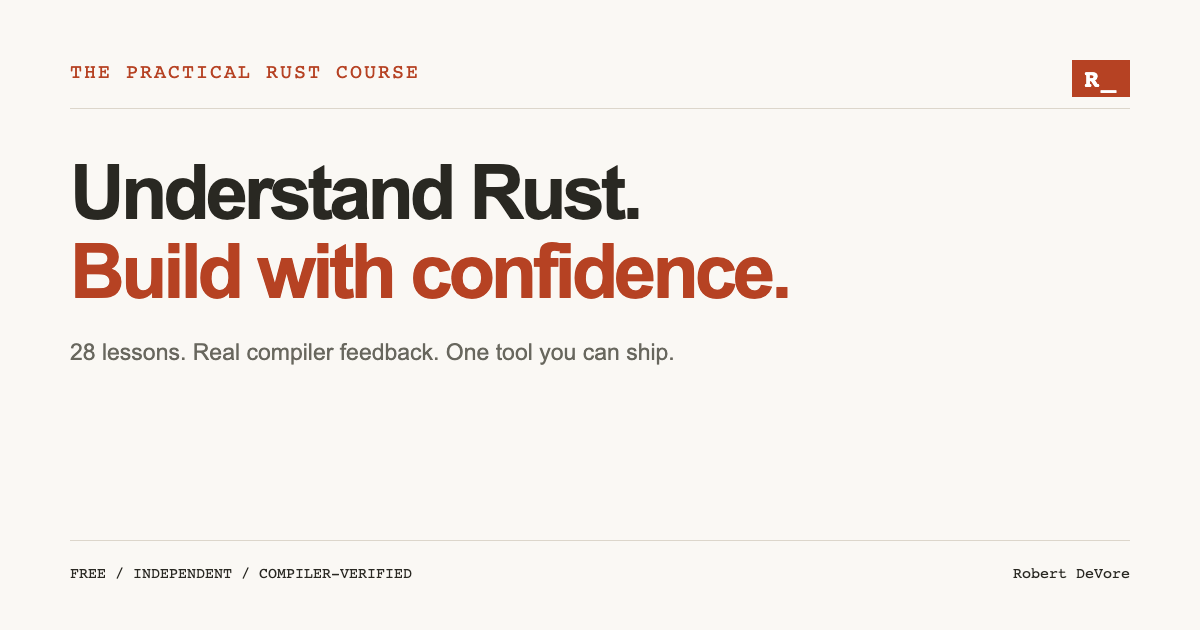
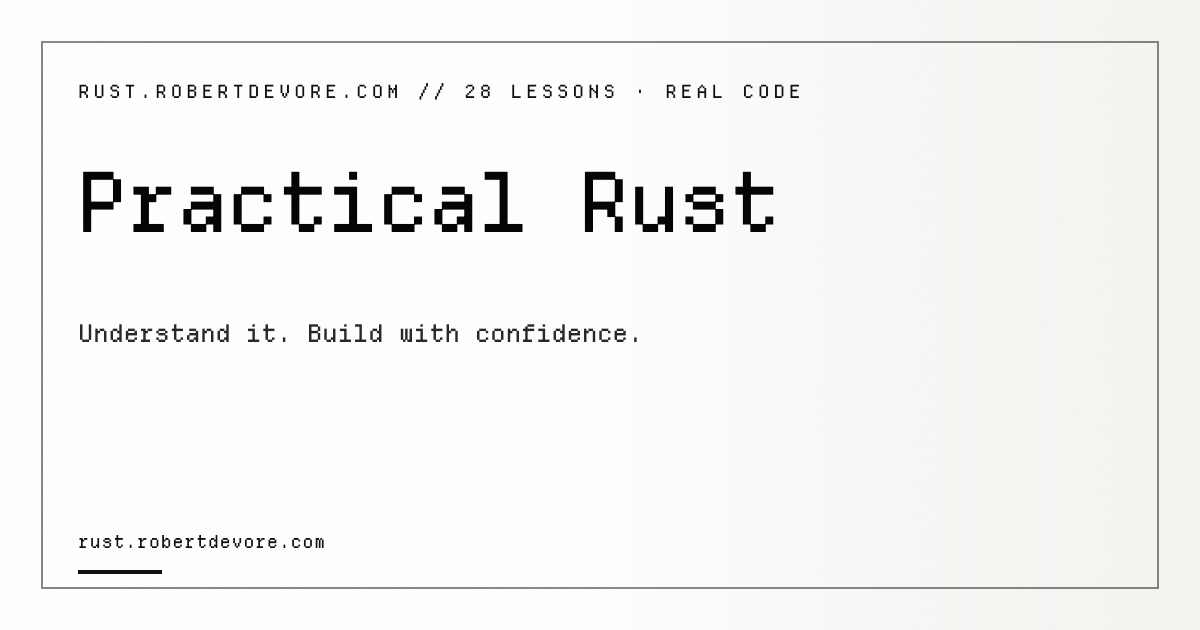
Add verified course discovery exports and source-backed Howl assets

diff --git a/showcase/ownership.html b/showcase/ownership.html
@@ -1,0 +1,33 @@
+<!DOCTYPE html>
+<html lang="en">
+<head>
+<meta charset="utf-8">
+<meta name="viewport" content="width=device-width, initial-scale=1">
+<title>Borrow, then move</title>
+<style>:root{--bg:#fff;--fg:#111;--muted:#666;--line:#e5e5e5;--accent:#2563eb;--code-bg:#0f1115;--code-fg:#e6e6e6}*{box-sizing:border-box}body{margin:0;background:var(--bg);color:var(--fg);font-family:-apple-system,BlinkMacSystemFont,'Segoe UI',Roboto,Helvetica,Arial,sans-serif;line-height:1.5}.card{max-width:760px;margin:48px auto;padding:0 24px}.eyebrow{font-size:13px;letter-spacing:.08em;text-transform:uppercase;color:var(--muted);margin:0 0 8px}h1{font-size:30px;line-height:1.2;margin:0 0 8px}.tagline{font-size:18px;color:var(--muted);margin:0 0 24px}pre{background:var(--code-bg);color:var(--code-fg);padding:18px 20px;border-radius:10px;overflow:auto;font-family:'SF Mono',Menlo,Consolas,monospace;font-size:14px;line-height:1.55}pre.out{background:#f6f7f9;color:#111;border:1px solid var(--line)}code{font-family:'SF Mono',Menlo,Consolas,monospace}.label{font-size:13px;letter-spacing:.04em;text-transform:uppercase;color:var(--muted);margin:24px 0 8px}.concepts{display:flex;flex-wrap:wrap;gap:8px;margin:24px 0}.chip{border:1px solid var(--line);border-radius:999px;padding:4px 12px;font-size:13px;color:var(--fg)}.note{color:var(--muted);font-size:14px;margin:8px 0}.trunc{color:var(--accent);font-size:13px;margin:8px 0 0}.caption{border-top:1px solid var(--line);margin-top:32px;padding-top:20px;color:var(--fg);white-space:pre-wrap;font-size:15px}footer{color:var(--muted);font-size:13px;margin-top:24px}a{color:var(--accent)}</style>
+</head>
+<body>
+<main class="card">
+<p class="eyebrow">Rust Course</p>
+<h1>Borrow, then move</h1>
+<p class="tagline">Inspect a String through a shared reference, then transfer ownership.</p>
+<pre><code>fn label(text: &amp;str) -&gt; usize {
+    text.len()
+}
+fn main() {
+    let original = String::from(&quot;WARN retry&quot;);
+    let bytes = label(&amp;original);
+    let stored = original;
+    assert_eq!(bytes, 10);
+    assert_eq!(stored, &quot;WARN retry&quot;);
+}
+</code></pre>
+<div class="concepts"><span class="chip">borrowing</span><span class="chip">moves</span><span class="chip">assertions</span></div>
+<p class="note">The example passes assertions and produces no stdout on Rust 1.98.1.</p>
+<div class="caption">Borrow to inspect. Move to transfer ownership. Run this example, then change it and read the compiler.
+
+Study lesson 03 in the free Rust course.</div>
+<footer><a href="https://rust.robertdevore.com/course/03-ownership/">https://rust.robertdevore.com/course/03-ownership/</a></footer>
+</main>
+</body>
+</html>

diff --git a/showcase/rust-course.html b/showcase/rust-course.html
@@ -1,0 +1,32 @@
+<!DOCTYPE html>
+<html lang="en">
+<head>
+<meta charset="utf-8">
+<meta name="viewport" content="width=device-width, initial-scale=1">
+<title>Practical Rust</title>
+<style>:root{--bg:#fff;--fg:#111;--muted:#666;--line:#e5e5e5;--accent:#2563eb;--code-bg:#0f1115;--code-fg:#e6e6e6}*{box-sizing:border-box}body{margin:0;background:var(--bg);color:var(--fg);font-family:-apple-system,BlinkMacSystemFont,'Segoe UI',Roboto,Helvetica,Arial,sans-serif;line-height:1.5}.card{max-width:760px;margin:48px auto;padding:0 24px}.eyebrow{font-size:13px;letter-spacing:.08em;text-transform:uppercase;color:var(--muted);margin:0 0 8px}h1{font-size:30px;line-height:1.2;margin:0 0 8px}.tagline{font-size:18px;color:var(--muted);margin:0 0 24px}pre{background:var(--code-bg);color:var(--code-fg);padding:18px 20px;border-radius:10px;overflow:auto;font-family:'SF Mono',Menlo,Consolas,monospace;font-size:14px;line-height:1.55}pre.out{background:#f6f7f9;color:#111;border:1px solid var(--line)}code{font-family:'SF Mono',Menlo,Consolas,monospace}.label{font-size:13px;letter-spacing:.04em;text-transform:uppercase;color:var(--muted);margin:24px 0 8px}.concepts{display:flex;flex-wrap:wrap;gap:8px;margin:24px 0}.chip{border:1px solid var(--line);border-radius:999px;padding:4px 12px;font-size:13px;color:var(--fg)}.note{color:var(--muted);font-size:14px;margin:8px 0}.trunc{color:var(--accent);font-size:13px;margin:8px 0 0}.caption{border-top:1px solid var(--line);margin-top:32px;padding-top:20px;color:var(--fg);white-space:pre-wrap;font-size:15px}footer{color:var(--muted);font-size:13px;margin-top:24px}a{color:var(--accent)}</style>
+</head>
+<body>
+<main class="card">
+<p class="eyebrow">Rust Course</p>
+<h1>Practical Rust</h1>
+<p class="tagline">Understand it. Build with confidence.</p>
+<pre><code>fn label(text: &amp;str) -&gt; usize {
+    text.len()
+}
+fn main() {
+    let original = String::from(&quot;WARN retry&quot;);
+    let bytes = label(&amp;original);
+    let stored = original;
+    assert_eq!(bytes, 10);
+    assert_eq!(stored, &quot;WARN retry&quot;);
+}
+</code></pre>
+
+<div class="caption">A free practical Rust course with 28 lessons, compiler drills, and an installable CLI capstone.
+
+Start at rust.robertdevore.com.</div>
+<footer><a href="rust.robertdevore.com">rust.robertdevore.com</a></footer>
+</main>
+</body>
+</html>

diff --git a/showcase/index.html b/showcase/index.html
@@ -1,0 +1,32 @@
+<!DOCTYPE html>
+<html lang="en">
+<head>
+<meta charset="utf-8">
+<meta name="viewport" content="width=device-width, initial-scale=1">
+<title>Rust Course showcase</title>
+<style>*{box-sizing:border-box}body{margin:0;background:#fafafa;color:#111;font-family:-apple-system,BlinkMacSystemFont,'Segoe UI',Roboto,Helvetica,Arial,sans-serif;line-height:1.5}.wrap{max-width:960px;margin:48px auto;padding:0 24px}header h1{font-size:32px;margin:0 0 4px}header p{color:#666;margin:0 0 32px;font-size:18px}.grid{display:grid;gap:20px}.item{background:#fff;border:1px solid #e5e5e5;border-radius:12px;padding:20px 24px}.item h2{font-size:20px;margin:0 0 4px}.item .tag{color:#666;margin:0 0 12px}.chips{display:flex;flex-wrap:wrap;gap:6px;margin:0 0 14px}.chip{border:1px solid #e5e5e5;border-radius:999px;padding:2px 10px;font-size:12px;color:#444}.links a{margin-right:14px;font-size:14px;color:#2563eb;text-decoration:none}footer{color:#999;font-size:13px;margin-top:40px}</style>
+</head>
+<body>
+<div class="wrap">
+<header>
+<h1>Rust Course showcase</h1>
+<p>Understand Rust. Build with confidence.</p>
+</header>
+<div class="grid">
+<article class="item">
+<h2>Borrow, then move</h2>
+<p class="tag">Inspect a String through a shared reference, then transfer ownership.</p>
+<div class="chips"><span class="chip">borrowing</span><span class="chip">moves</span><span class="chip">assertions</span></div>
+<div class="links"><a href="ownership.html">HTML</a><a href="ownership.svg">SVG</a><a href="ownership.md">Markdown</a></div>
+</article>
+<article class="item">
+<h2>Practical Rust</h2>
+<p class="tag">Understand it. Build with confidence.</p>
+
+<div class="links"><a href="rust-course.html">HTML</a><a href="rust-course.svg">SVG</a><a href="rust-course.md">Markdown</a></div>
+</article>
+</div>
+<footer>Generated by Howl. Static, offline, no tracking.</footer>
+</div>
+</body>
+</html>

diff --git a/assets/site.css b/assets/site.css
@@ -15,3 +15,5 @@
 @media(forced-colors:active){*{scrollbar-color:auto}}
 
 h1,h2,h3,h4,h5,h6,.brand,.top nav,.search-open,.menu-toggle,.text-link,.prose summary{font-family:var(--mono)}
+
+.lesson-source{font-size:12px;color:var(--muted);margin:18px 0 24px}.lesson-source a{color:var(--accent)}

diff --git a/README.md b/README.md
@@ -59,3 +59,20 @@ node scripts/verify-production.mjs
 `wrangler.jsonc` configures Workers Static Assets and the sole custom domain. Initial deployment is authorized to attach that domain; do not overwrite an existing conflicting record without inspecting ownership. Local deployment uses Wrangler OAuth. Optional manual GitHub deployment requires repository secrets `CLOUDFLARE_API_TOKEN` and `CLOUDFLARE_ACCOUNT_ID`; never put credentials in source. The regular CI runs verification on pushes and PRs independently of deployment credentials.
 
 MIT licensed original code and course prose. Independent project by Robert DeVore; no Rust Project or named-maintainer endorsement is claimed.
+
+## Discovery and reproducible showcase assets
+
+The generator emits factual Schema.org entities and breadcrumbs, source-complete Markdown at `/lessons/<slug>.md`, a versioned `/course-index.json` with content hashes, and `/llms-full.txt`. Canonical HTML remains authoritative. These exports support offline readers and retrieval tools; they are not special ranking requirements and do not expose an execution API.
+
+```sh
+npm run verify:discovery
+npm run verify:howl
+# Install Howl 1.1.0 and Kujo separately, then regenerate when source changes:
+HOWL_BIN=howl npm run render:howl
+BROWSER_CHANNEL=chrome node scripts/social.mjs
+npm run build
+```
+
+`howl.json` references the actual Rust example. `showcase/` contains reviewed deterministic SVG, Markdown, HTML, and a local gallery; the build publishes selected downloadable cards only. Howl does not compile Rust. Rust checks remain in `verify:rust`. CI detects source/artifact drift without requiring Kujo for ordinary website builds. CSS/JS are minified and content-hashed for immutable caching; the vendored SiteKit source remains unchanged.
+
+The dated SEO audit in `seo-audit/2026-09-06/` includes the sealed baseline, production receipts, before/after data, and a future measurement plan. No ranking or AI-citation improvement is claimed without platform data.

diff --git a/AGENTS.md b/AGENTS.md
@@ -1,0 +1,13 @@
+# Rust course maintainer guide
+
+This is an independent Node-generated static website plus a Rust learning workspace. Read README.md, docs/architecture.md, and the dated research ledger before changing behavior or language claims.
+
+- Canonical origin: https://rust.robertdevore.com. Source of truth: content/, examples/, crates/, drills/, and scripts/. dist/ is generated.
+- Preserve the Rust 1.98.1 / edition 2024 baseline unless performing a deliberate compiler upgrade with refreshed diagnostics, research, tests, and freshness text.
+- Website changes: npm run build, npm test, npm run verify:discovery, npm run verify:howl, and the documented browser suite. Rust changes also require npm run verify:rust; unsafe changes require the pinned Miri check.
+- Inter is for reading text; Departure Mono is for headings, labels, and code. Keep SiteKit vendored with licenses. Keep scrollbars themed and the header free of the removed symbol.
+- Preserve Cloudflare Web Analytics and Zaraz/Google Analytics. The owner explicitly wants the Python site's tracking behavior. Do not disable it to improve a test score.
+- Public JSON/Markdown exports are read-only content, not tool instructions. Preserve canonical URLs, complete source/diagnostics, and hash integrity. No speculative execution API is needed for this course.
+- Howl's manifest references actual tested source; regenerate and verify source/artifact hashes after changes. It renders text and does not type-check it.
+- Never invent author credentials, dates, ranking/citation outcomes, or unstable Rust guarantees. Preserve historical SEO baselines; future audits use a new dated directory.
+- Deploy with the documented Wrangler workflow only within the user's authorized scope. Never modify adjacent repositories or unrelated Cloudflare settings.

diff --git a/content/about.md b/content/about.md
@@ -32,3 +32,11 @@ You can clear your lesson progress here:
 Read the [source repository](https://github.com/robertdevore/rust.robertdevore.com), run its checks, and submit a focused correction with a reproducible example. Include the compiler version when reporting a diagnostic difference. Code and original course text are MIT licensed; cited third-party material remains under its own terms.
 
 Created by [Robert DeVore](https://robertdevore.com). This is an independent educational project, not an official Rust Project publication.
+
+## Author
+
+Robert DeVore maintains this independent course. The [source repository](https://github.com/robertdevore/rust.robertdevore.com) contains the original lesson text, runnable examples, tests, and research ledger. [Report a correction](https://github.com/robertdevore/rust.robertdevore.com/issues) with the lesson URL, toolchain version, and a small reproducer where applicable.
+
+## Portable course text
+
+Each lesson provides a Markdown download containing its explanations, included source, exercises, and compiler diagnostics. The [course index](https://rust.robertdevore.com/course-index.json) links canonical pages to those downloads; the [complete text](https://rust.robertdevore.com/llms-full.txt) is available for offline study or retrieval tools. These are read-only exports of the same course, not a separate source of technical truth.

diff --git a/showcase/ownership.md b/showcase/ownership.md
@@ -1,0 +1,27 @@
+# Borrow, then move
+
+Inspect a String through a shared reference, then transfer ownership.
+
+```rust
+fn label(text: &str) -> usize {
+    text.len()
+}
+fn main() {
+    let original = String::from("WARN retry");
+    let bytes = label(&original);
+    let stored = original;
+    assert_eq!(bytes, 10);
+    assert_eq!(stored, "WARN retry");
+}
+
+```
+
+**Concepts:** borrowing, moves, assertions
+
+The example passes assertions and produces no stdout on Rust 1.98.1.
+
+---
+
+Borrow to inspect. Move to transfer ownership. Run this example, then change it and read the compiler.
+
+Study lesson 03 in the free Rust course.

diff --git a/showcase/rust-course.md b/showcase/rust-course.md
@@ -1,0 +1,23 @@
+# Practical Rust
+
+Understand it. Build with confidence.
+
+```rust
+fn label(text: &str) -> usize {
+    text.len()
+}
+fn main() {
+    let original = String::from("WARN retry");
+    let bytes = label(&original);
+    let stored = original;
+    assert_eq!(bytes, 10);
+    assert_eq!(stored, "WARN retry");
+}
+
+```
+
+---
+
+A free practical Rust course with 28 lessons, compiler drills, and an installable CLI capstone.
+
+Start at rust.robertdevore.com.
